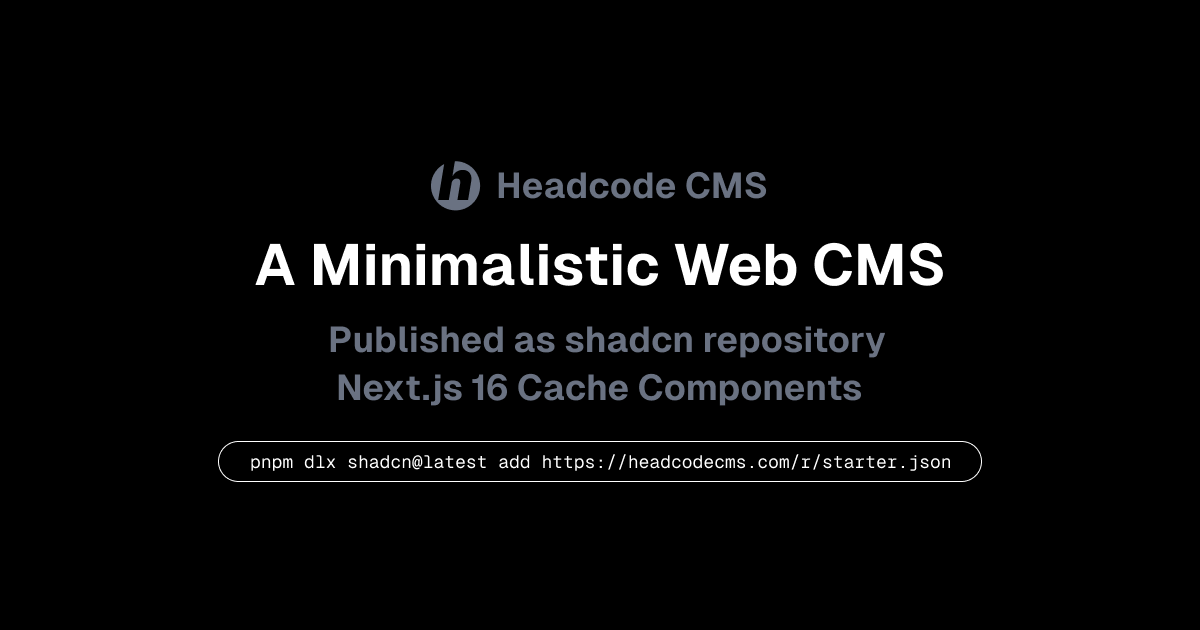
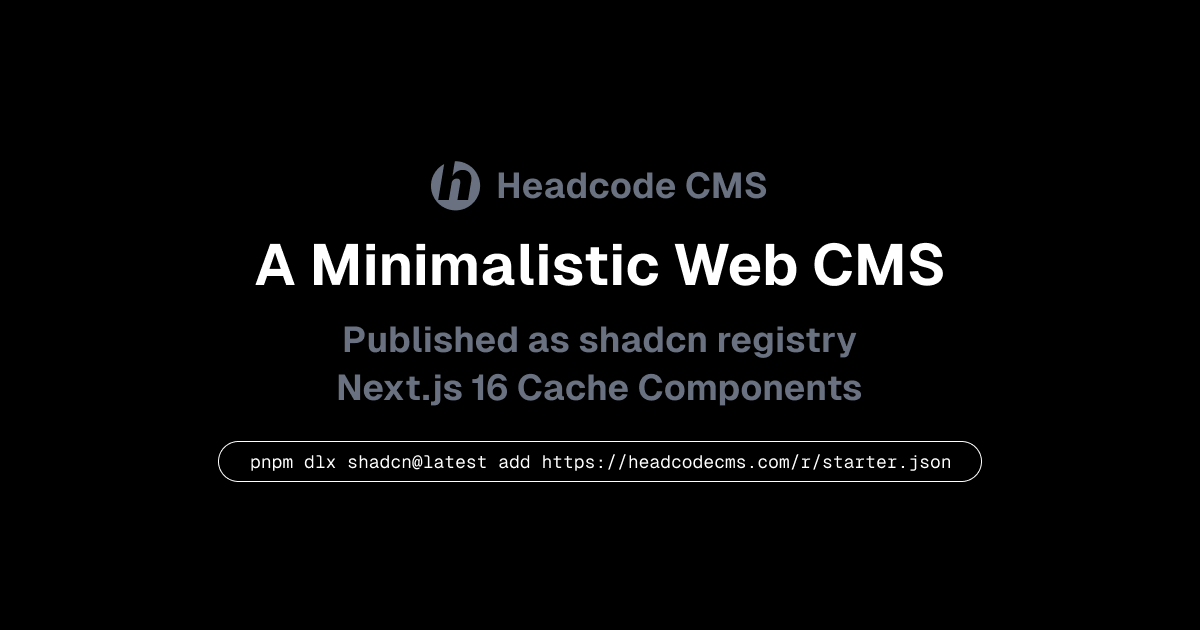
Updated README

Changed region(s): [[0.2775, 0.5127, 0.74, 0.573]]

diff --git a/apps/web/app/(site)/docs/[slug]/app-sidebar.tsx b/apps/web/app/(site)/docs/[slug]/app-sidebar.tsx
@@ -41,6 +41,15 @@ export async function AppSidebar({
     .sort((a, b) => (a.order < b.order ? -1 : 1))
 
   const nav = getNav(metas, slug)
+  const open = [
+    'Overview',
+    'Themes',
+    'Admin',
+    'Fields',
+    'Database',
+    'Storage',
+    'Auth',
+  ]
 
   return (
     <Sidebar {...props}>
@@ -48,7 +57,7 @@ export async function AppSidebar({
         <SidebarMenu>
           <SidebarMenuItem>
             <SidebarMenuButton size="lg" asChild>
-              <a href="#">
+              <div>
                 <div className="bg-muted text-muted-foreground flex aspect-square size-8 items-center justify-center rounded-lg">
                   <GalleryVerticalEnd className="size-4" />
                 </div>
@@ -56,7 +65,7 @@ export async function AppSidebar({
                   <span className="font-medium">Documentation</span>
                   <span className="">v1.0.0</span>
                 </div>
-              </a>
+              </div>
             </SidebarMenuButton>
           </SidebarMenuItem>
         </SidebarMenu>
@@ -67,7 +76,7 @@ export async function AppSidebar({
             {nav.map((item, index) => (
               <Collapsible
                 key={index}
-                defaultOpen={true}
+                defaultOpen={open.includes(item.title)}
                 className="group/collapsible"
               >
                 <SidebarMenuItem>

diff --git a/README.md b/README.md
@@ -1,135 +1,186 @@
-# Turborepo starter
+# Headcode CMS
 
-This Turborepo starter is maintained by the Turborepo core team.
+**Headcode CMS** is a minimal, open‑source content management system built for **Next.js**. It installs directly into your project through the **shadcn registry** and integrates neatly with modern React + TypeScript workflows.
 
-## Using this example
+## Features
+- **Next.js 16 + Cache Components** for modern performance  
+- **shadcn/ui**‑based admin and UI components  
+- **TanStack Forms** for structured content editing  
+- **Drizzle ORM** for clean database access  
+- **Better Auth** for authentication and users  
+- **Open architecture** — install directly into your codebase  
+- **Themes, Fields & Sections** via shadcn‑style registry  
+- Built‑in **Admin Interface** for managing content  
 
-Run the following command:
+## Getting Started
 
-```sh
-npx create-turbo@latest
+Headcode CMS and its components (themes, sections, fields …) are published as a **shadcn registry**. Install pieces with the CLI:
+
+### Install the Starter
+```bash
+pnpm dlx shadcn@latest add https://headcodecms/r/starter.json
 ```
 
-## What's inside?
+The starter installs:
+- **Next.js 16**
+- **shadcn/ui**
+- **Headcode CMS Admin**
+- **Vienna theme** (demo site)
 
-This Turborepo includes the following packages/apps:
+Default stack:
+- **SQLite (file)** database  
+- **Better Auth** authentication  
+- **File storage**
 
-### Apps and Packages
+Good for local development. For production, use providers like [Turso Cloud](https://turso.tech) and [Vercel Blob Storage](https://vercel.com/docs/storage/vercel-blob).
 
-- `docs`: a [Next.js](https://nextjs.org/) app
-- `web`: another [Next.js](https://nextjs.org/) app
-- `@repo/ui`: a stub React component library shared by both `web` and `docs` applications
-- `@repo/eslint-config`: `eslint` configurations (includes `eslint-config-next` and `eslint-config-prettier`)
-- `@repo/typescript-config`: `tsconfig.json`s used throughout the monorepo
 
-Each package/app is 100% [TypeScript](https://www.typescriptlang.org/).
-
-### Utilities
-
-This Turborepo has some additional tools already setup for you:
-
-- [TypeScript](https://www.typescriptlang.org/) for static type checking
-- [ESLint](https://eslint.org/) for code linting
-- [Prettier](https://prettier.io) for code formatting
-
-### Build
-
-To build all apps and packages, run the following command:
-
-```
-cd my-turborepo
-
-# With [global `turbo`](https://turborepo.com/docs/getting-started/installation#global-installation) installed (recommended)
-turbo build
-
-# Without [global `turbo`](https://turborepo.com/docs/getting-started/installation#global-installation), use your package manager
-npx turbo build
-yarn dlx turbo build
-pnpm exec turbo build
+```env
+LIBSQL_URL=<your‑database‑url>
+LIBSQL_AUTH_TOKEN=<your‑auth‑token>
+FILE_STORAGE_FOLDER=public/storage
 ```
 
-You can build a specific package by using a [filter](https://turborepo.com/docs/crafting-your-repository/running-tasks#using-filters):
-
-```
-# With [global `turbo`](https://turborepo.com/docs/getting-started/installation#global-installation) installed (recommended)
-turbo build --filter=docs
-
-# Without [global `turbo`](https://turborepo.com/docs/getting-started/installation#global-installation), use your package manager
-npx turbo build --filter=docs
-yarn exec turbo build --filter=docs
-pnpm exec turbo build --filter=docs
+## Database Setup
+```bash
+pnpm drizzle-kit push
+# or using migrations
+pnpm drizzle-kit generate
+pnpm drizzle-kit migrate
 ```
 
-### Develop
+## Project Structure
 
-To develop all apps and packages, run the following command:
+| App | Path | Description |
+|:----|:------|:-------------|
+| Admin | `app/(headcode)` | Headcode Admin interface |
+| Demo Site | `app/(site)` | Example Vienna theme |
 
+Remove default files to avoid conflicts:
 ```
-cd my-turborepo
-
-# With [global `turbo`](https://turborepo.com/docs/getting-started/installation#global-installation) installed (recommended)
-turbo dev
-
-# Without [global `turbo`](https://turborepo.com/docs/getting-started/installation#global-installation), use your package manager
-npx turbo dev
-yarn exec turbo dev
-pnpm exec turbo dev
+app/layout.tsx
+app/page.tsx
 ```
+Keep `globals.css` for shadcn/ui styles.
 
-You can develop a specific package by using a [filter](https://turborepo.com/docs/crafting-your-repository/running-tasks#using-filters):
-
+Start the server:
+```bash
+pnpm dev
 ```
-# With [global `turbo`](https://turborepo.com/docs/getting-started/installation#global-installation) installed (recommended)
-turbo dev --filter=web
+- Website → http://localhost:3000  
+- Admin   → http://localhost:3000/headcode  
 
-# Without [global `turbo`](https://turborepo.com/docs/getting-started/installation#global-installation), use your package manager
-npx turbo dev --filter=web
-yarn exec turbo dev --filter=web
-pnpm exec turbo dev --filter=web
-```
+On first run you’ll create an administrator account.
 
-### Remote Caching
+## Configuration
 
-> [!TIP]
-> Vercel Remote Cache is free for all plans. Get started today at [vercel.com](https://vercel.com/signup?/signup?utm_source=remote-cache-sdk&utm_campaign=free_remote_cache).
+Project structure lives in `headcode.config.ts`:
 
-Turborepo can use a technique known as [Remote Caching](https://turborepo.com/docs/core-concepts/remote-caching) to share cache artifacts across machines, enabling you to share build caches with your team and CI/CD pipelines.
-
-By default, Turborepo will cache locally. To enable Remote Caching you will need an account with Vercel. If you don't have an account you can [create one](https://vercel.com/signup?utm_source=turborepo-examples), then enter the following commands:
-
-```
-cd my-turborepo
-
-# With [global `turbo`](https://turborepo.com/docs/getting-started/installation#global-installation) installed (recommended)
-turbo login
-
-# Without [global `turbo`](https://turborepo.com/docs/getting-started/installation#global-installation), use your package manager
-npx turbo login
-yarn exec turbo login
-pnpm exec turbo login
-```
-
-This will authenticate the Turborepo CLI with your [Vercel account](https://vercel.com/docs/concepts/personal-accounts/overview).
-
-Next, you can link your Turborepo to your Remote Cache by running the following command from the root of your Turborepo:
-
-```
-# With [global `turbo`](https://turborepo.com/docs/getting-started/installation#global-installation) installed (recommended)
-turbo link
-
-# Without [global `turbo`](https://turborepo.com/docs/getting-started/installation#global-installation), use your package manager
-npx turbo link
-yarn exec turbo link
-pnpm exec turbo link
+```ts
+export const headcodeConfig: HeadcodeConfig = {
+ version: 'v02',
+ entries: [
+  { 
+    namespace: 'global', 
+    key: 'nav', 
+    sections:[
+      { section: navSection, pinned: true }
+    ] 
+  },
+  { 
+    namespace: 'blog', 
+    sections: [
+      {section: metaSection, pinned: true},
+      {section: heroSection},
+      {section: textSection}
+    ] 
+  }
+ ]
+};
 ```
 
-## Useful Links
+- **Entries**: pages / content items  
+- **Sections**: content blocks  
+- **Fields**: inputs ( Text, Textarea, Image …)  
+- **Pinned sections**: cannot be deleted (e.g., meta data)
 
-Learn more about the power of Turborepo:
+## Themes
 
-- [Tasks](https://turborepo.com/docs/crafting-your-repository/running-tasks)
-- [Caching](https://turborepo.com/docs/crafting-your-repository/caching)
-- [Remote Caching](https://turborepo.com/docs/core-concepts/remote-caching)
-- [Filtering](https://turborepo.com/docs/crafting-your-repository/running-tasks#using-filters)
-- [Configuration Options](https://turborepo.com/docs/reference/configuration)
-- [CLI Usage](https://turborepo.com/docs/reference/command-line-reference)
+Themes define reusable layouts and sections (Hero, Text, Features, Image, Footer …).
+
+Installed themes live in  
+```
+components/headcode/themes/[theme-name]
+```
+
+## Create a Custom Section
+
+```ts
+export const heroSection = {
+  name: 'hero',
+  label: 'Hero Section',
+  fields: {
+    title: TextField({
+      label: 'Title',
+    }),
+    subtitle: TextareaField({
+      label: 'Subtitle',
+    }),
+    primaryButton: LinkField({
+      label: 'Primary Button',
+    }),
+  } satisfies Fields,
+}
+export type HeroData = InferSectionData<typeof heroSection.fields>
+
+export function Hero({ sectionData }: { sectionData: unknown }) {
+  const { data } = parseSectionData(heroSection.fields, sectionData)
+
+  return (
+    <div>
+      <h1>{data.title}</h1>
+      <p>{data.subtitle}</p>
+      <Button href={data.primaryButton.url}>
+        {data.primaryButton.title}
+      </Button>
+    </div>
+  )
+}
+```
+
+## Users and Roles
+- **Admin** → manage content + users/roles  
+- **User** → edit content  
+
+Auth and sessions: **Better Auth**.
+
+## Versioning
+Clone content to new versions for campaigns or releases.
+
+## Admin Interface
+
+The Headcode CMS Admin Interface  is built with **shadcn/ui** + **TanStack Forms**. It builds forms from your `headcode.config.ts` schema automatically, single fields and arrays alike.
+
+## How It Works
+1. Define fields and sections in `headcode.config.ts`  
+2. Admin renders matching forms  
+3. Each Entry contains Sections, each Section contains Fields  
+4. All data stored via Drizzle ORM in SQLite / Turso  
+
+## Thank You
+
+Headcode CMS is built on **Next.js**, **shadcn/ui**, **Tailwind CSS**, **TanStack**, **Drizzle ORM**, and **Better Auth**.  
+Thanks to everyone in the open‑source community whose work made this possible.
+
+## Contact
+- Email: **markus@headcodecms.com**  
+- X/Twitter: **[@headcodecms](https://x.com/headcodecms)**  
+- GitHub Sponsors for support  
+
+## Contribute
+- Try it and share feedback  
+- Star the repo ❤  
+- PRs welcome — keep it simple and readable  
+
+## License
+MIT License
